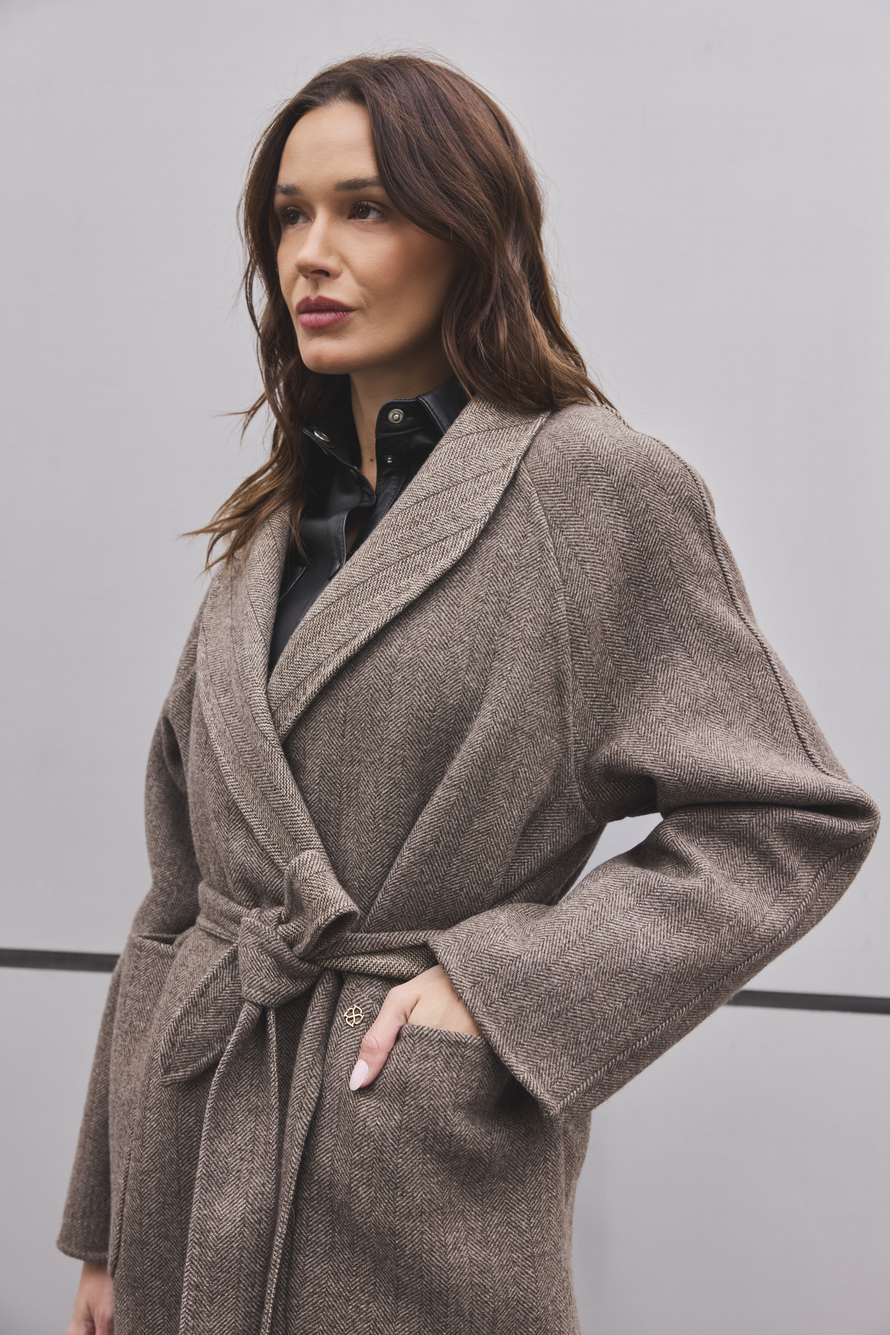
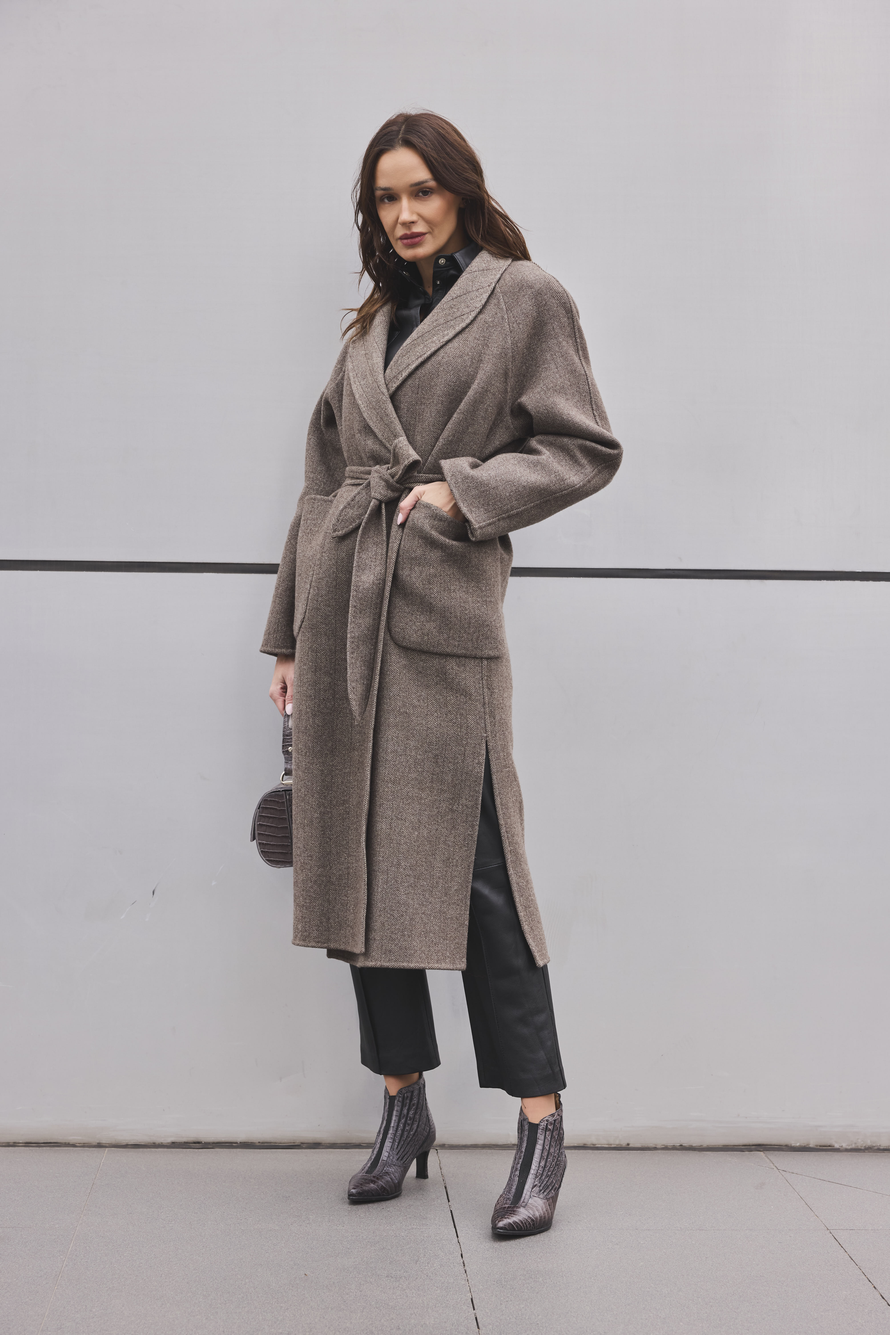
Reemplaza foto café por plano entero con mejor composición

diff --git a/app/HeroBackground.tsx b/app/HeroBackground.tsx
@@ -5,7 +5,7 @@ import { useEffect, useState } from "react";
 
 const images = [
   { src: "/hero/playa.jpg",    alt: "Modelo con abrigo de cashmere", pos: "center 28%" },
-  { src: "/hero/rocas.jpg",    alt: "Modelo con abrigo de cashmere", pos: "center 26%" },
+  { src: "/hero/rocas.jpg",    alt: "Modelo con abrigo de cashmere", pos: "center 18%" },
   { src: "/hero/cardigan.jpg", alt: "Modelo con cárdigan cashmere",  pos: "center 18%" },
   { src: "/hero/columnas.jpg", alt: "Modelo con abrigo de cashmere", pos: "center 20%" },
 ];
